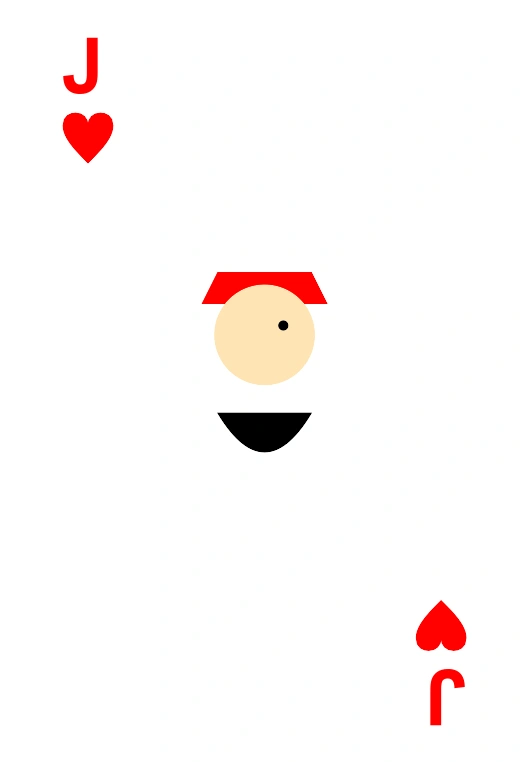
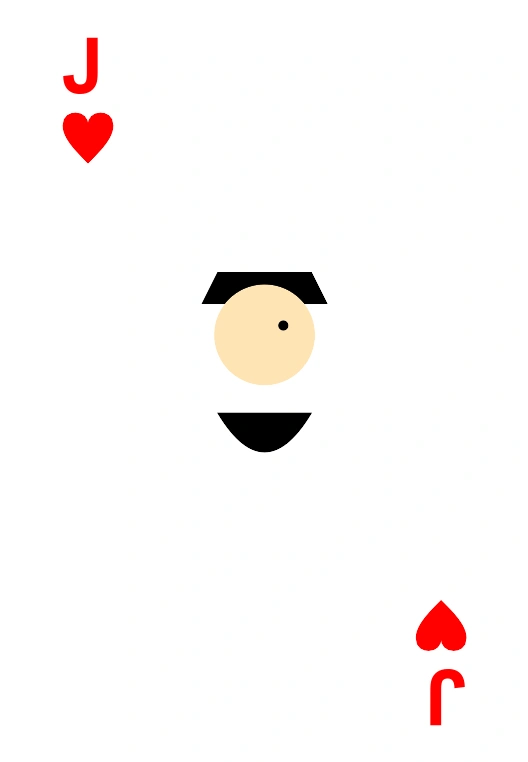
fix: O카드, J카드 이미지 수정

Changed region(s): [[0.3939, 0.332, 0.6061, 0.4226]]

diff --git a/public/cards/CardTemplate.js b/public/cards/CardTemplate.js
@@ -138,7 +138,7 @@ const createOCardSVG = () => `
   <rect width="169" height="244" rx="12" fill="white" stroke="#E5E5E5"/>
   
   <!-- 중앙 검은 원 -->
-  <circle cx="84.5" cy="122" r="40" stroke="#000000" stroke-width="8" fill="none"/>
+  <circle cx="84.5" cy="122" r="40" stroke="#000000" stroke-width="10" fill="none" stroke-opacity="1"/>
 </svg>
 `;
 
@@ -183,7 +183,7 @@ const getFaceImage = (rank, isOneEyed, isRed) => {
     case 'J':
       return `
         <!-- 모자 -->
-        <path d="M-15 -35 L15 -35 L20 -25 L-20 -25 Z" fill="#FF0000"/>
+        <path d="M-15 -35 L15 -35 L20 -25 L-20 -25 Z" fill="#000000"/>
         <!-- 얼굴 -->
         <circle cx="0" cy="-15" r="16" fill="${faceColor}"/>
         <!-- 눈 -->
